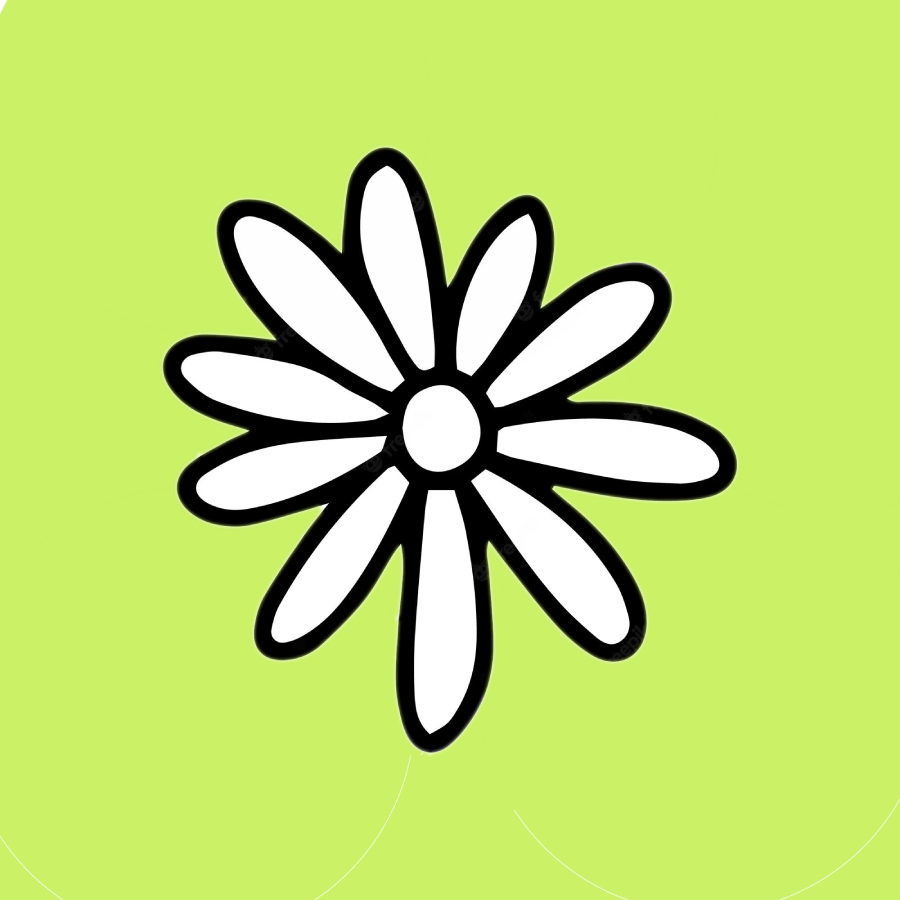
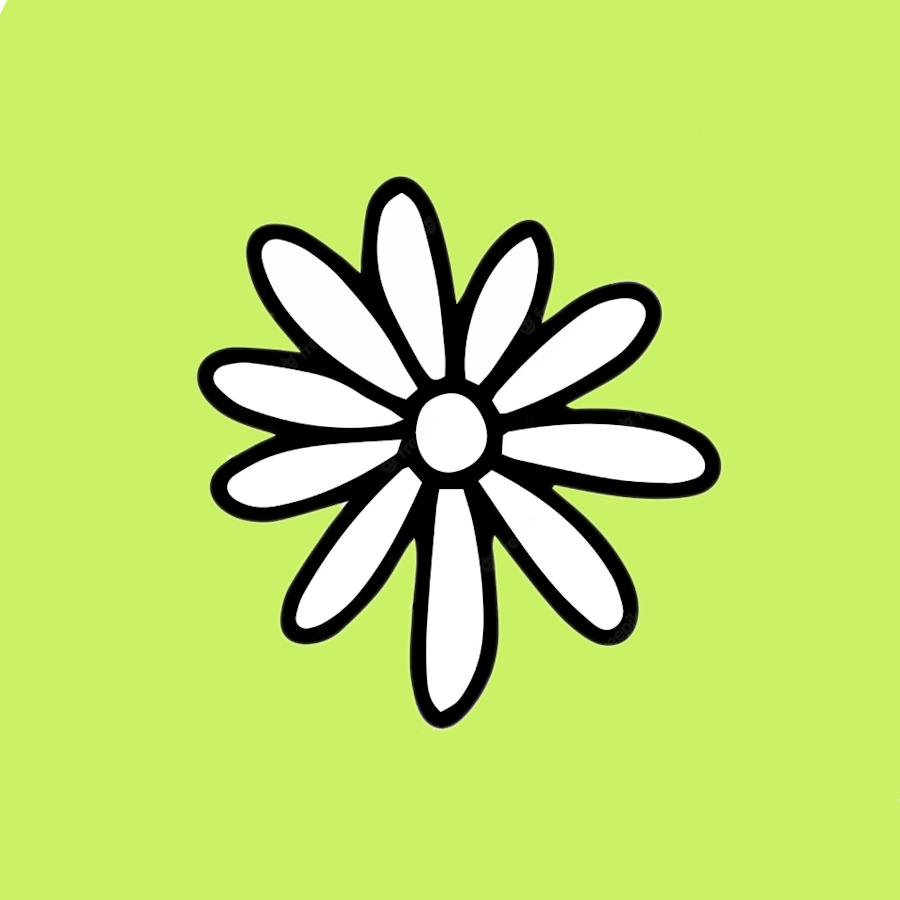
Mise à jour graphique

Changed region(s): [[0.1556, 0.1556, 0.84, 0.84], [0.6844, 0.9956, 0.7156, 1.0], [0.3733, 0.4044, 0.4044, 0.4356]]

diff --git a/src/main/java/jeu/AffichageJeu.java b/src/main/java/jeu/AffichageJeu.java
@@ -32,11 +32,11 @@ public class AffichageJeu extends Scene {
     //Récupère la source des images
     private static final String IMG_CACTUS = "/ElementsJeu/CactusColors.png";
     private static final String IMG_HERBE = "/ElementsJeu/HerbeColors.png";
-    private static final String IMG_LOUP = "/ElementsJeu/LoupColors.png";
+    private static final String IMG_LOUP = "/ElementsJeu/loup.png";
     private static final String IMG_MARGUERITE = "/ElementsJeu/MargueColors.png";
     private static final String IMG_MOUTON = "/ElementsJeu/MoutonColors.png";
     private static final String IMG_ROCHER = "/ElementsJeu/RocherColors.png";
-    private static final String IMG_TERRE = "/ElementsJeu/vide.png";
+    private static final String IMG_TERRE = "/ElementsJeu/terre.png";
     private AnchorPane panneauTemporaire;
     private AnchorPane panneauPrincipal;
     //private SplitPane separateur;
@@ -258,7 +258,7 @@ public class AffichageJeu extends Scene {
         //on rajoute à la racine le splitPane
         mainScene.setRoot(splitPane);
         //Permet de définir le style de panneau2
-        panneau2.setStyle("-fx-background-color: rgb(220,241,196)");
+        panneau2.setStyle("-fx-background-color: rgb(161,236,158)");
 
     }
 
